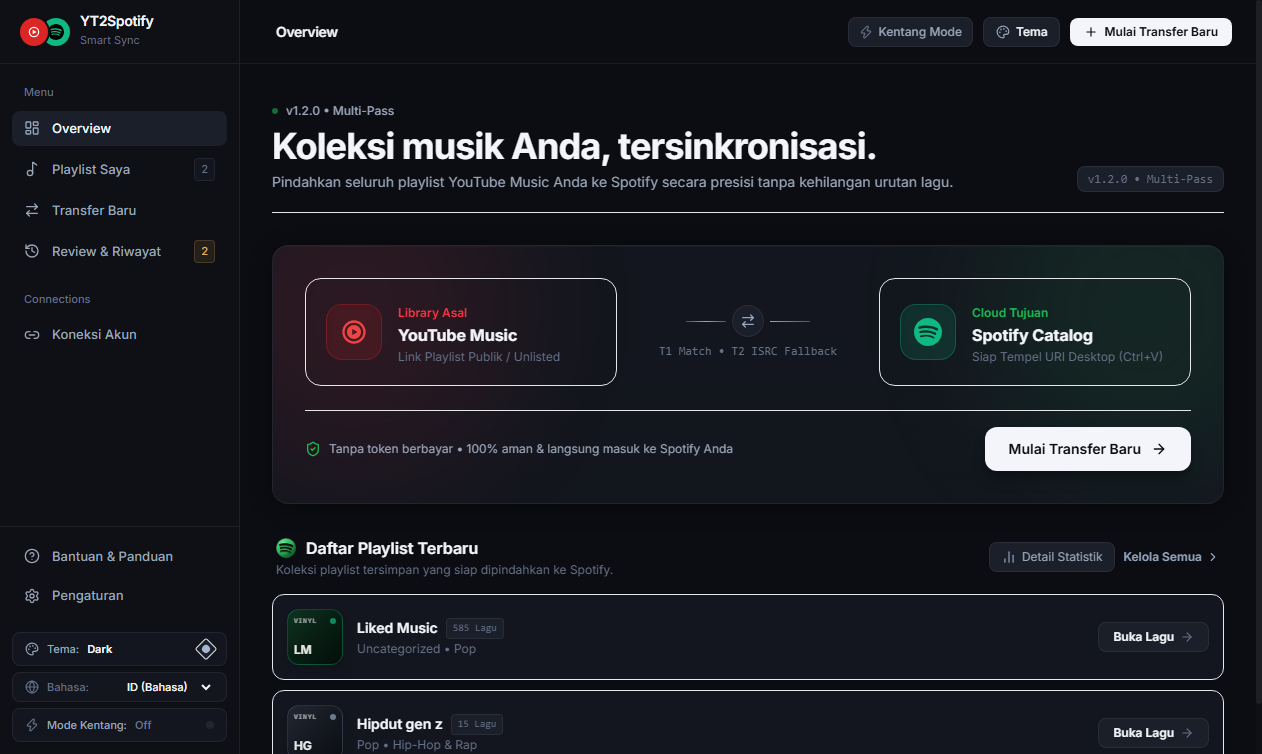
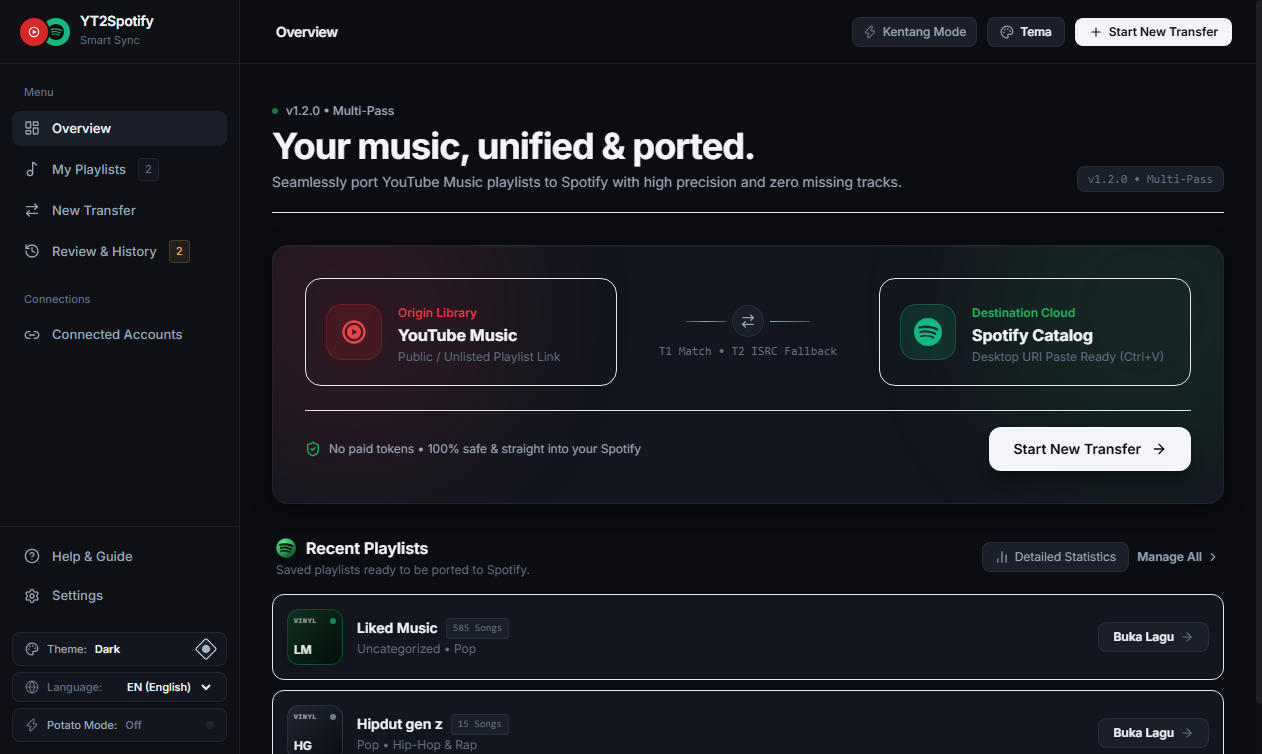
docs: update screenshots to English interface

diff --git a/yt2sp/ui/index.html b/yt2sp/ui/index.html
@@ -1515,11 +1515,11 @@
           <div class="inline-flex p-1 rounded-xl bg-bgElevated border border-borderColor space-x-1 flex-shrink-0">
             <button onclick="setGuideTab('simple')" id="guide-tab-btn-simple" class="px-3 py-1.5 rounded-lg text-xs font-semibold bg-bgCard text-textPrimary shadow-sm transition-colors flex items-center space-x-1.5">
               <i data-lucide="zap" class="w-3.5 h-3.5 text-accent"></i>
-              <span>Ringkas &amp; Sederhana</span>
+              <span data-i18n="guide_tab_simple">Ringkas &amp; Sederhana</span>
             </button>
             <button onclick="setGuideTab('detailed')" id="guide-tab-btn-detailed" class="px-3 py-1.5 rounded-lg text-xs font-medium text-textSecondary hover:text-textPrimary transition-colors flex items-center space-x-1.5">
               <i data-lucide="book-open" class="w-3.5 h-3.5 text-spotifyGreen"></i>
-              <span>Panduan Rinci</span>
+              <span data-i18n="guide_tab_detailed">Panduan Rinci</span>
               <i data-lucide="chevron-down" id="guide-tab-arrow" class="w-3 h-3 text-textMuted ml-0.5 transition-transform duration-200"></i>
             </button>
           </div>
@@ -1532,11 +1532,11 @@
           <!-- Section Banner -->
           <div class="p-5 rounded-2xl bg-bgCard border border-borderColor space-y-3">
             <div class="flex items-center space-x-2 text-xs font-semibold text-accent">
-              <span class="px-2 py-0.5 rounded-md bg-accent/15 border border-accent/30 text-[11px]">Bagian 1</span>
-              <span>Penjelasan Sederhana &bull; Pahami dalam 1 Menit</span>
+              <span class="px-2 py-0.5 rounded-md bg-accent/15 border border-accent/30 text-[11px]" data-i18n="guide_sec1_badge">Bagian 1</span>
+              <span data-i18n="guide_sec1_sub">Penjelasan Sederhana &bull; Pahami dalam 1 Menit</span>
             </div>
-            <h3 class="text-base md:text-lg font-bold text-textPrimary">Bagaimana yt2sp Bekerja Tanpa Akun API Berbayar?</h3>
-            <p class="text-xs md:text-sm text-textSecondary leading-relaxed">
+            <h3 class="text-base md:text-lg font-bold text-textPrimary" data-i18n="guide_simple_title">Bagaimana yt2sp Bekerja Tanpa Akun API Berbayar?</h3>
+            <p class="text-xs md:text-sm text-textSecondary leading-relaxed" data-i18n="guide_simple_desc">
               Aplikasi <strong>Spotify Desktop</strong> secara bawaan memiliki kemampuan untuk membaca daftar teks URI lagu langsung dari clipboard laptop Anda. 
               <strong>yt2sp</strong> bertindak sebagai jembatan: mengambil daftar judul lagu dari playlist YouTube Anda, mencari versi resminya di Spotify, lalu menyalin kodenya. Anda cukup menekan tombol <strong>Ctrl + V</strong> di Spotify Desktop agar seluruh lagu masuk seketika. <strong>100% gratis, aman, dan tanpa perlu login akun Spotify di web!</strong>
             </p>
@@ -1549,8 +1549,8 @@
                 <div class="w-8 h-8 rounded-lg bg-bgElevated text-accent flex items-center justify-center font-bold text-xs border border-borderColor">1</div>
                 <i data-lucide="link" class="w-4 h-4 text-textMuted"></i>
               </div>
-              <h4 class="text-sm font-semibold text-textPrimary">1. Masukkan Link &amp; Ekstrak</h4>
-              <p class="text-xs text-textSecondary leading-relaxed">
+              <h4 class="text-sm font-semibold text-textPrimary" data-i18n="guide_step1_card_title">1. Masukkan Link &amp; Ekstrak</h4>
+              <p class="text-xs text-textSecondary leading-relaxed" data-i18n="guide_step1_card_desc">
                 Salin link playlist YouTube Music atau YouTube reguler, tempel di yt2sp, lalu klik <strong>"Mulai Ekstraksi Lagu"</strong>. Sistem akan otomatis mencocokkan setiap lagu ke katalog Spotify.
               </p>
             </div>
@@ -1560,8 +1560,8 @@
                 <div class="w-8 h-8 rounded-lg bg-bgElevated text-accent flex items-center justify-center font-bold text-xs border border-borderColor">2</div>
                 <i data-lucide="copy" class="w-4 h-4 text-spotifyGreen"></i>
               </div>
-              <h4 class="text-sm font-semibold text-textPrimary">2. Salin Blok URI Spotify</h4>
-              <p class="text-xs text-textSecondary leading-relaxed">
+              <h4 class="text-sm font-semibold text-textPrimary" data-i18n="guide_step2_card_title">2. Salin Blok URI Spotify</h4>
+              <p class="text-xs text-textSecondary leading-relaxed" data-i18n="guide_step2_card_desc">
                 Di halaman Playlist atau Smart Genre Splitter, klik tombol hijau <strong>"Salin Semua URI Spotify"</strong>. Semua kode lagu akan tersimpan otomatis di clipboard komputer Anda.
               </p>
             </div>
@@ -1571,15 +1571,15 @@
                 <div class="w-8 h-8 rounded-lg bg-bgElevated text-accent flex items-center justify-center font-bold text-xs border border-borderColor">3</div>
                 <i data-lucide="clipboard-paste" class="w-4 h-4 text-accent"></i>
               </div>
-              <h4 class="text-sm font-semibold text-textPrimary">3. Buka Spotify &amp; Ctrl + V</h4>
-              <p class="text-xs text-textSecondary leading-relaxed">
+              <h4 class="text-sm font-semibold text-textPrimary" data-i18n="guide_step3_card_title">3. Buka Spotify &amp; Ctrl + V</h4>
+              <p class="text-xs text-textSecondary leading-relaxed" data-i18n="guide_step3_card_desc">
                 Buka aplikasi <strong>Spotify Desktop</strong> di komputer Anda, buat Playlist Baru, klik area daftar lagu, lalu tekan <strong>Ctrl + V</strong> (atau <strong>Cmd + V</strong> di Mac). Selesai!
               </p>
             </div>
           </div>
 
           <!-- Syarat Penting Singkat -->
-          <div class="p-3.5 rounded-xl bg-bgElevated/70 border border-borderColor flex items-start space-x-3 text-xs text-textSecondary">
+          <div class="p-3.5 rounded-xl bg-bgElevated/70 border border-borderColor flex items-start space-x-3 text-xs text-textSecondary" data-i18n="guide_simple_notice">
             <i data-lucide="info" class="w-4 h-4 text-accent flex-shrink-0 mt-0.5"></i>
             <div>
               <strong class="text-textPrimary font-semibold">Penting Diingat:</strong> Wajib menggunakan <strong>Spotify Desktop</strong> (aplikasi resmi Windows / Mac). Spotify versi Web Player di browser tidak dapat menerima paste URI karena batasan keamanan browser.
@@ -1595,7 +1595,7 @@
                 </div>
                 <div>
                   <h4 class="text-xs md:text-sm font-semibold text-textPrimary flex items-center space-x-2">
-                    <span id="detailed-guide-btn-title">Lihat Panduan Lebih Rinci &amp; Langkah Demi Langkah</span>
+                    <span id="detailed-guide-btn-title" data-i18n="guide_trigger_title">Lihat Panduan Lebih Rinci &amp; Langkah Demi Langkah</span>
                     <span class="text-[10px] px-1.5 py-0.5 rounded bg-spotifyGreen/15 text-spotifyGreen border border-spotifyGreen/30 font-medium">Tahap A - E</span>
                   </h4>
                   <p class="text-[11px] text-textSecondary mt-0.5" id="detailed-guide-btn-sub">Klik panah di samping untuk melihat rincian Review Studio, Genre Splitter, dan Troubleshooting.</p>

diff --git a/yt2sp/ui/i18n.js b/yt2sp/ui/i18n.js
@@ -242,6 +242,20 @@ const TRANSLATIONS = {
     accounts_sub: "Status koneksi akun YouTube Music dan Spotify Anda.",
     guide_heading: "Panduan Tempel ke Spotify",
     guide_sub: "Cara termudah menempelkan kumpulan URI lagu ke Spotify Web Player.",
+    guide_tab_simple: "Ringkas & Sederhana",
+    guide_tab_detailed: "Panduan Rinci",
+    guide_sec1_badge: "Bagian 1",
+    guide_sec1_sub: "Penjelasan Sederhana &bull; Pahami dalam 1 Menit",
+    guide_simple_title: "Bagaimana yt2sp Bekerja Tanpa Akun API Berbayar?",
+    guide_simple_desc: "Aplikasi <strong>Spotify Desktop</strong> secara bawaan memiliki kemampuan untuk membaca daftar teks URI lagu langsung dari clipboard laptop Anda. <strong>yt2sp</strong> bertindak sebagai jembatan: mengambil daftar judul lagu dari playlist YouTube Anda, mencari versi resminya di Spotify, lalu menyalin kodenya. Anda cukup menekan tombol <strong>Ctrl + V</strong> di Spotify Desktop agar seluruh lagu masuk seketika. <strong>100% gratis, aman, dan tanpa perlu login akun Spotify di web!</strong>",
+    guide_step1_card_title: "1. Masukkan Link & Ekstrak",
+    guide_step1_card_desc: "Salin link playlist YouTube Music atau YouTube reguler, tempel di yt2sp, lalu klik <strong>\"Mulai Ekstraksi Lagu\"</strong>. Sistem akan otomatis mencocokkan setiap lagu ke katalog Spotify.",
+    guide_step2_card_title: "2. Salin Blok URI Spotify",
+    guide_step2_card_desc: "Di halaman Playlist atau Smart Genre Splitter, klik tombol hijau <strong>\"Salin Semua URI Spotify\"</strong>. Semua kode lagu akan tersimpan otomatis di clipboard komputer Anda.",
+    guide_step3_card_title: "3. Buka Spotify & Ctrl + V",
+    guide_step3_card_desc: "Buka aplikasi <strong>Spotify Desktop</strong> di komputer Anda, buat Playlist Baru, klik area daftar lagu, lalu tekan <strong>Ctrl + V</strong> (atau <strong>Cmd + V</strong> di Mac). Selesai!",
+    guide_simple_notice: "<strong>Penting Diingat:</strong> Wajib menggunakan <strong>Spotify Desktop</strong> (aplikasi resmi Windows / Mac). Spotify versi Web Player di browser tidak dapat menerima paste URI karena batasan keamanan browser.",
+    guide_trigger_title: "Lihat Panduan Lebih Rinci & Langkah Demi Langkah",
     settings_heading: "Pengaturan Sistem",
     settings_sub: "Konfigurasi performa, mode optimalisasi, dan preferensi aplikasi.",
     guided_title: "Transfer Playlist Musik",
@@ -584,6 +598,20 @@ const TRANSLATIONS = {
     accounts_sub: "Connection status for YouTube Music and Spotify.",
     guide_heading: "Spotify Paste Guide",
     guide_sub: "The fastest way to paste track URIs directly into Spotify Web Player.",
+    guide_tab_simple: "Quick & Simple",
+    guide_tab_detailed: "Detailed Guide",
+    guide_sec1_badge: "Section 1",
+    guide_sec1_sub: "Quick Overview &bull; Understand in 1 Minute",
+    guide_simple_title: "How Does yt2sp Work Without a Paid API Account?",
+    guide_simple_desc: "The <strong>Spotify Desktop</strong> app natively supports reading track URI lists directly from your clipboard. <strong>yt2sp</strong> acts as a seamless bridge: extracts track titles from your YouTube playlist, resolves official tracks on Spotify, and formats them for copying. Simply press <strong>Ctrl + V</strong> (or <strong>Cmd + V</strong> on Mac) in Spotify Desktop to add all songs instantly. <strong>100% free, secure, and no web login required!</strong>",
+    guide_step1_card_title: "1. Paste Link & Extract",
+    guide_step1_card_desc: "Copy your YouTube Music or standard YouTube playlist URL, paste it into yt2sp, and click <strong>\"Extract Metadata\"</strong>. The system automatically matches every song against the Spotify catalog.",
+    guide_step2_card_title: "2. Copy Spotify URI Chunks",
+    guide_step2_card_desc: "In your Playlist or Smart Genre Splitter view, click <strong>\"Copy All Spotify URIs\"</strong>. All track URIs will be safely copied directly to your computer clipboard.",
+    guide_step3_card_title: "3. Open Spotify & Ctrl + V",
+    guide_step3_card_desc: "Open the official <strong>Spotify Desktop</strong> app, create a new playlist, click the tracks area, and press <strong>Ctrl + V</strong> (or <strong>Cmd + V</strong>). All songs are instantly added!",
+    guide_simple_notice: "<strong>Please Note:</strong> You must use the official <strong>Spotify Desktop</strong> app (Windows / Mac). Web browser Spotify players do not accept clipboard URI pasting due to browser security sandboxes.",
+    guide_trigger_title: "View Detailed Step-by-Step Technical Guide",
     settings_heading: "System Settings",
     settings_sub: "Configure performance mode, theme preferences, and app options.",
     guided_title: "Music Playlist Transfer",
